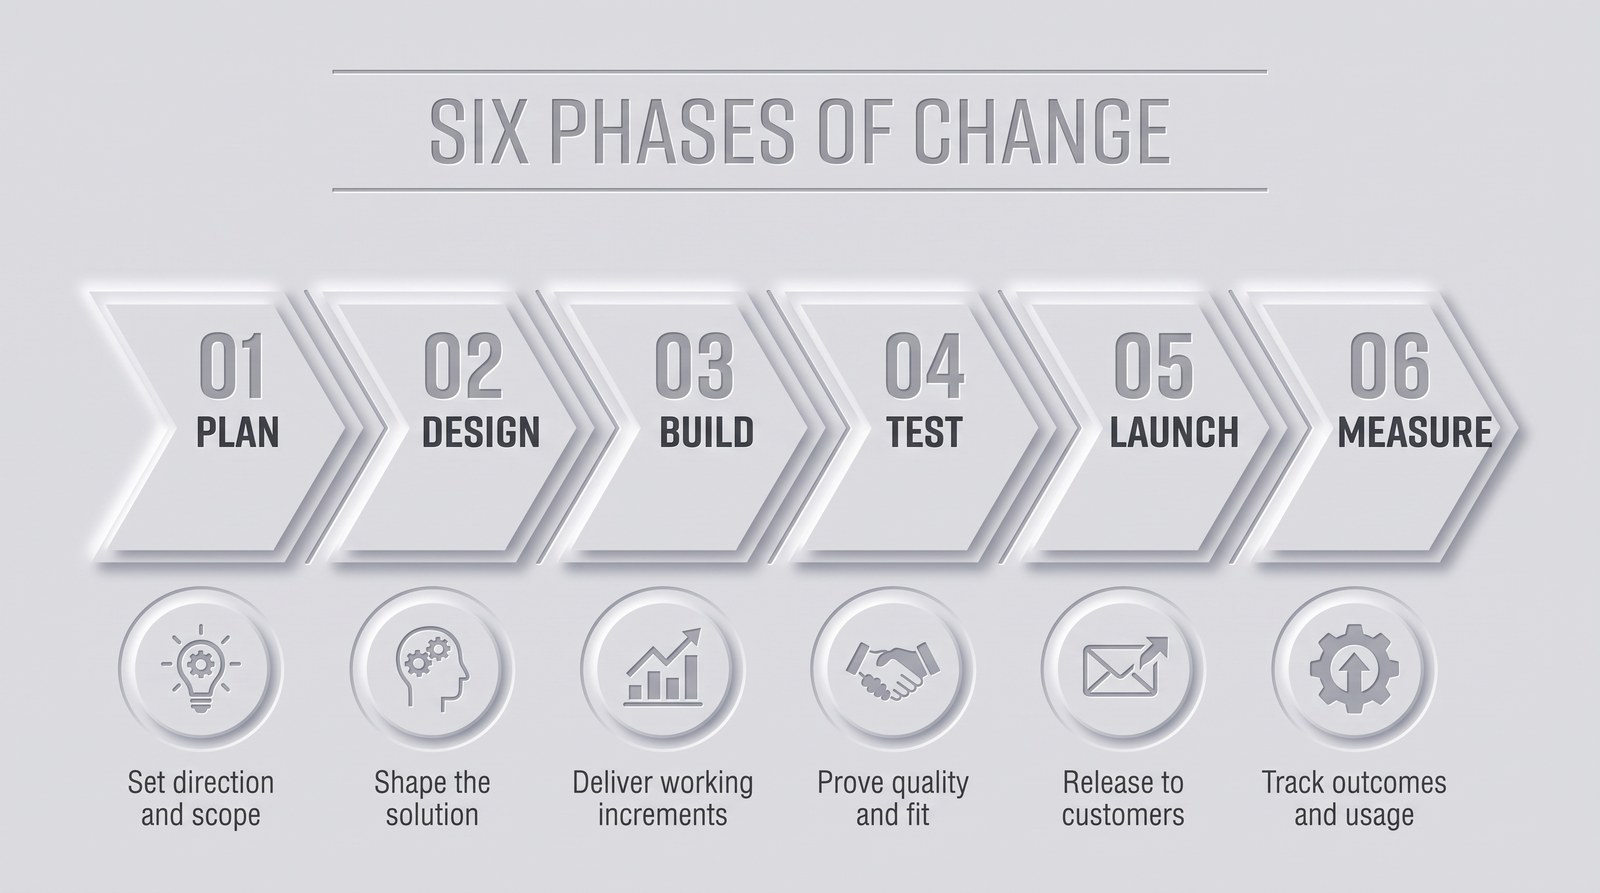
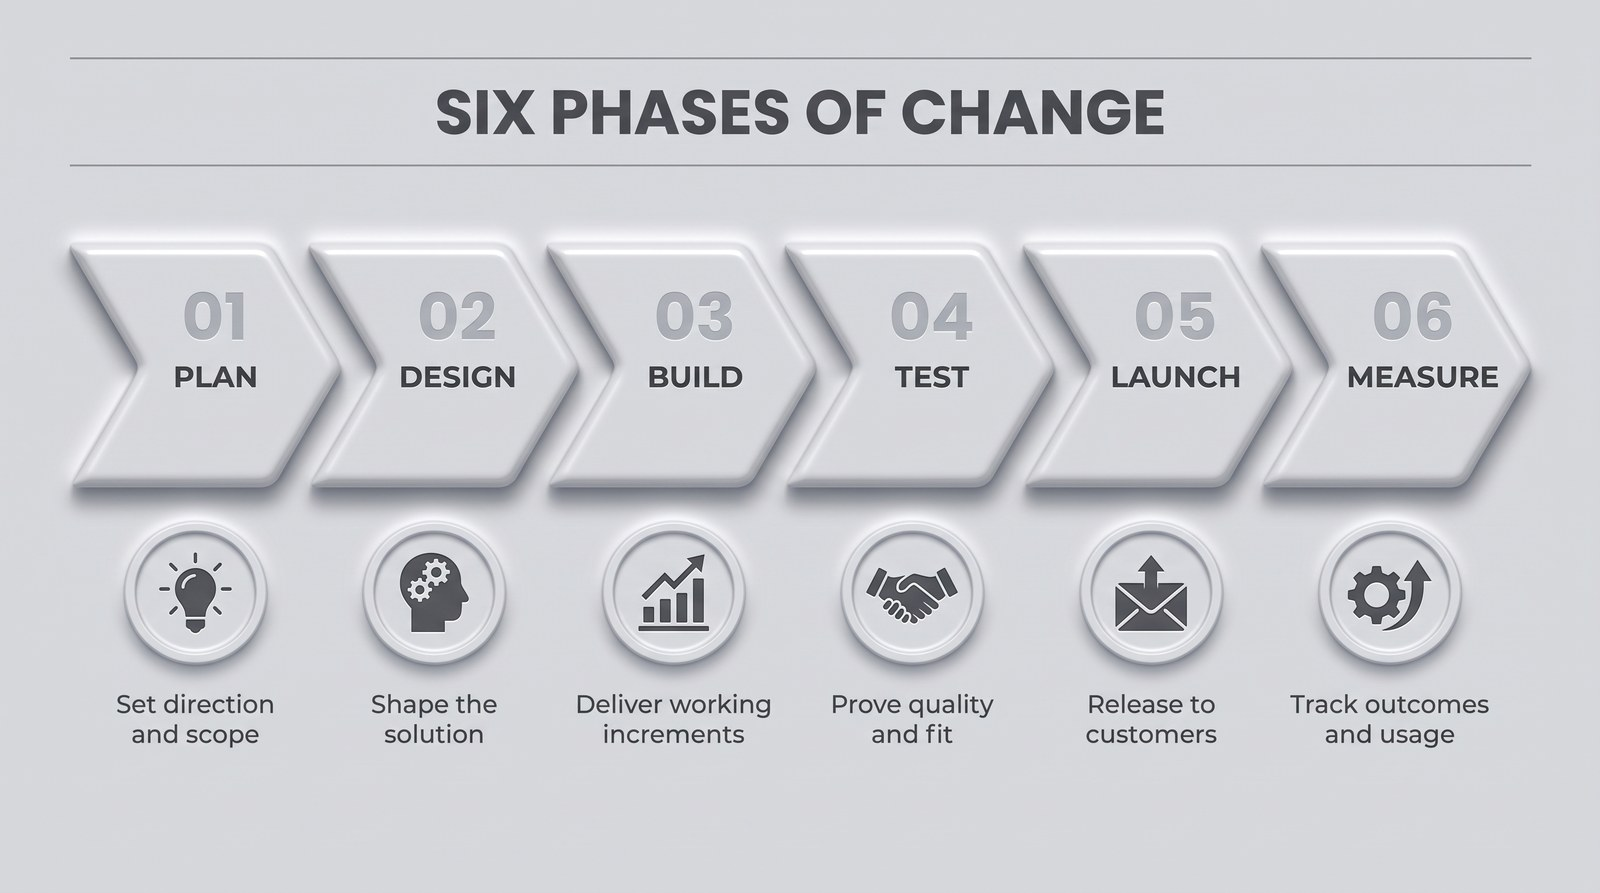
feat(iig3d): soft-emboss chevron row re-rendered with rolled glossy edges
Replace 3d-soft-emboss/05 with a render of itself pinned plus notes: each
chevron is one smooth slab with a rolled, glossy plastic edge, no stepped
double outline, and the gaps between chevrons are flat backdrop. Variant
emphasis updated; entry keeps id, pairings, variant and item_count and
records the regeneration.

Claude-Session: https://claude.ai/code/session_0151ARZiCY72S93mYekjP6EY

Changed region(s): [[0.0312, 0.0605, 0.9688, 0.9373]]

diff --git a/sdlc/knowledge/modules/catalogue.md b/sdlc/knowledge/modules/catalogue.md
@@ -5,11 +5,11 @@ description: "Graphify community 39: skills/iig3d/scripts/iig3d.py"
 resource: skills/iig3d/scripts
 tags: [module, graphify]
 status: draft
-generated: { by: sdlc/0.3.5, at: "2026-09-21T05:03:47Z" }
-stale_after: "2026-10-05T05:03:47Z"
-source_commit: b59f3451dc0b77b589cbafd9812f581df6f10352
+generated: { by: sdlc/0.3.5, at: "2026-09-21T05:06:16Z" }
+stale_after: "2026-10-05T05:06:16Z"
+source_commit: 6ac4d77c7d0e6ad62e60d2fa01cebbade71dc4ca
 sources:
-  - { id: iig3d, resource: skills/iig3d/scripts/iig3d.py, last_modified: "2026-09-21T15:03:44+10:00", digest: 1eab83aa7c95cc71 }
+  - { id: iig3d, resource: skills/iig3d/scripts/iig3d.py, last_modified: "2026-09-21T15:06:12+10:00", digest: 755d0eccdd75a015 }
 ---
 
 # Files
@@ -24,17 +24,17 @@ sources:
 - A catalogue ref named by the user: `<member>/<id|file|stem>`, a… (skills/iig3d/scripts/iig3d.py:L122)
 - .pin_token() (skills/iig3d/scripts/iig3d.py:L142)
 - .flag_values() (skills/iig3d/scripts/iig3d.py:L151)
-- prepare() (skills/iig3d/scripts/iig3d.py:L1677)
-- Shared front half of prompt and render: spec, route, aspect, refs, palette,… (skills/iig3d/scripts/iig3d.py:L1678)
-- cmd_render() (skills/iig3d/scripts/iig3d.py:L1718)
-- cmd_route() (skills/iig3d/scripts/iig3d.py:L1738)
-- cmd_refs() (skills/iig3d/scripts/iig3d.py:L1745)
-- The refs a render would pass, plus every catalogue ref of the member with its… (skills/iig3d/scripts/iig3d.py:L1746)
-- cmd_icons() (skills/iig3d/scripts/iig3d.py:L1760)
-- Name search and text-based suggestion in one call, so Claude can pick or verify… (skills/iig3d/scripts/iig3d.py:L1761)
-- cmd_check() (skills/iig3d/scripts/iig3d.py:L1782)
-- check() (skills/iig3d/scripts/iig3d.py:L1843)
-- Every catalogue rule in one pass; empty list means clean. (skills/iig3d/scripts/iig3d.py:L1844)
+- prepare() (skills/iig3d/scripts/iig3d.py:L1674)
+- Shared front half of prompt and render: spec, route, aspect, refs, palette,… (skills/iig3d/scripts/iig3d.py:L1675)
+- cmd_render() (skills/iig3d/scripts/iig3d.py:L1715)
+- cmd_route() (skills/iig3d/scripts/iig3d.py:L1735)
+- cmd_refs() (skills/iig3d/scripts/iig3d.py:L1742)
+- The refs a render would pass, plus every catalogue ref of the member with its… (skills/iig3d/scripts/iig3d.py:L1743)
+- cmd_icons() (skills/iig3d/scripts/iig3d.py:L1757)
+- Name search and text-based suggestion in one call, so Claude can pick or verify… (skills/iig3d/scripts/iig3d.py:L1758)
+- cmd_check() (skills/iig3d/scripts/iig3d.py:L1779)
+- check() (skills/iig3d/scripts/iig3d.py:L1840)
+- Every catalogue rule in one pass; empty list means clean. (skills/iig3d/scripts/iig3d.py:L1841)
 - Route (skills/iig3d/scripts/iig3d.py:L229)
 - .as_dict() (skills/iig3d/scripts/iig3d.py:L236)
 - split_style() (skills/iig3d/scripts/iig3d.py:L240)

diff --git a/skills/iig3d/docs/members/3d-soft-emboss.md b/skills/iig3d/docs/members/3d-soft-emboss.md
@@ -12,7 +12,7 @@ Member of the 3D corporate family. Neumorphic soft-embossed grey devices: jigsaw
 | `3d-soft-emboss/02` | `ref-02-jigsaw-ring-four.jpg` | Neumorphic light grey disc cut into four jigsaw quarters with a recessed centre, raised icon discs on each quarter, big light-grey numerals 01 to 04 with names and descriptions two per side of the disc | Jigsaw ring | clean |
 | `3d-soft-emboss/03` | `ref-03-segment-ring-three.jpg` | Neumorphic light grey disc split into three wedges by thin grooves around a recessed centre, raised icon disc per wedge on the right, three raised numbered cards 01 to 03 on the left, title centred at top | Segment ring | clean |
 | `3d-soft-emboss/04` | `ref-04-overlapping-circles.jpg` | Three raised translucent light-grey circles overlapping like a Venn diagram on the right, numerals 01 to 03 in the overlaps, a raised icon disc on each outer lobe, big numerals 1 to 3 with names and descriptions in a column on the left | Overlapping circles | clean |
-| `3d-soft-emboss/05` | `ref-05-chevron-row-six.jpg` | Six raised neumorphic chevron arrows nesting left to right in one row, all the same matte light grey as the backdrop with white top-left highlights and soft bottom-right shadows, a large light-grey numeral and a bold dark name on each chevron, a raised icon disc with a two-line caption under each one, title centred at top between two thin rules | Chevron row | clean |
+| `3d-soft-emboss/05` | `ref-05-chevron-row-six.jpg` | Six matte light-grey chevron arrows in one row, each a single smooth slab with a rolled glossy plastic edge, one soft highlight along the top edge and one soft shadow beneath, flat backdrop between them with no grooves or secondary outlines, a large light-grey numeral and a bold dark name on each chevron, a raised icon disc with a two-line caption under each one, title centred at top between two thin rules | Chevron row | clean |
 
 Pin one with `pin: <Pin>` in the spec (or `--pin`) to reproduce its composition with your content.
 
@@ -58,7 +58,7 @@ Pin one with `pin: <Pin>` in the spec (or `--pin`) to reproduce its composition 
 | **Jigsaw ring** | Parts that lock into one whole | Puzzle-cut disc, pieces separated by fine grooves |
 | **Segment ring** | Cycles and phases | Wedge-cut disc around a recessed centre |
 | **Overlapping circles** | Shared ground between three areas | Three raised circles with numerals in the overlaps |
-| **Chevron row** | Sequences of five or six steps | Raised chevrons in a row, icon discs and captions beneath, title between thin rules |
+| **Chevron row** | Sequences of five or six steps | Raised chevrons in a row with one rolled glossy edge each and flat gaps between, icon discs and captions beneath, title between thin rules |
 
 ### Visual Elements
 

diff --git a/sdlc/knowledge/modules/path.md b/sdlc/knowledge/modules/path.md
@@ -5,11 +5,11 @@ description: "Graphify community 35: skills/iig3d/scripts/iig3d.py"
 resource: skills/iig3d/scripts
 tags: [module, graphify]
 status: draft
-generated: { by: sdlc/0.3.5, at: "2026-09-21T05:03:47Z" }
-stale_after: "2026-10-05T05:03:47Z"
-source_commit: b59f3451dc0b77b589cbafd9812f581df6f10352
+generated: { by: sdlc/0.3.5, at: "2026-09-21T05:06:16Z" }
+stale_after: "2026-10-05T05:06:16Z"
+source_commit: 6ac4d77c7d0e6ad62e60d2fa01cebbade71dc4ca
 sources:
-  - { id: iig3d, resource: skills/iig3d/scripts/iig3d.py, last_modified: "2026-09-21T15:03:44+10:00", digest: 1eab83aa7c95cc71 }
+  - { id: iig3d, resource: skills/iig3d/scripts/iig3d.py, last_modified: "2026-09-21T15:06:12+10:00", digest: 755d0eccdd75a015 }
 ---
 
 # Files
@@ -22,15 +22,15 @@ sources:
 - Minimal .env parser: KEY=VALUE, optional `export `, quotes stripped, # comments… (skills/iig3d/scripts/iig3d.py:L1157)
 - api_key() (skills/iig3d/scripts/iig3d.py:L1177)
 - (key, source). Order: --api-key, ./.env in the calling directory, process… (skills/iig3d/scripts/iig3d.py:L1178)
-- load_prompt_text() (skills/iig3d/scripts/iig3d.py:L1245)
-- backup_existing() (skills/iig3d/scripts/iig3d.py:L1254)
-- render() (skills/iig3d/scripts/iig3d.py:L1269)
-- Call Nano Banana Pro with the persisted prompt file and save an RGB PNG.… (skills/iig3d/scripts/iig3d.py:L1282)
-- _load_meta() (skills/iig3d/scripts/iig3d.py:L1389)
-- _check_variant() (skills/iig3d/scripts/iig3d.py:L1418)
-- _new_member_record() (skills/iig3d/scripts/iig3d.py:L1426)
-- add_ref() (skills/iig3d/scripts/iig3d.py:L1447)
-- Normalise an image into refs/<member>/, register it in the member YAML (or… (skills/iig3d/scripts/iig3d.py:L1448)
+- load_prompt_text() (skills/iig3d/scripts/iig3d.py:L1242)
+- backup_existing() (skills/iig3d/scripts/iig3d.py:L1251)
+- render() (skills/iig3d/scripts/iig3d.py:L1266)
+- Call Nano Banana Pro with the persisted prompt file and save an RGB PNG.… (skills/iig3d/scripts/iig3d.py:L1279)
+- _load_meta() (skills/iig3d/scripts/iig3d.py:L1386)
+- _check_variant() (skills/iig3d/scripts/iig3d.py:L1415)
+- _new_member_record() (skills/iig3d/scripts/iig3d.py:L1423)
+- add_ref() (skills/iig3d/scripts/iig3d.py:L1444)
+- Normalise an image into refs/<member>/, register it in the member YAML (or… (skills/iig3d/scripts/iig3d.py:L1445)
 - read_yaml() (skills/iig3d/scripts/iig3d.py:L155)
 - write_yaml() (skills/iig3d/scripts/iig3d.py:L163)
 - load_catalogue() (skills/iig3d/scripts/iig3d.py:L169)

diff --git a/sdlc/knowledge/modules/iig3d-py.md b/sdlc/knowledge/modules/iig3d-py.md
@@ -5,11 +5,11 @@ description: "Graphify community 41: skills/iig3d/scripts/iig3d.py"
 resource: skills/iig3d/scripts
 tags: [module, graphify]
 status: draft
-generated: { by: sdlc/0.3.5, at: "2026-09-21T05:03:47Z" }
-stale_after: "2026-10-05T05:03:47Z"
-source_commit: b59f3451dc0b77b589cbafd9812f581df6f10352
+generated: { by: sdlc/0.3.5, at: "2026-09-21T05:06:16Z" }
+stale_after: "2026-10-05T05:06:16Z"
+source_commit: 6ac4d77c7d0e6ad62e60d2fa01cebbade71dc4ca
 sources:
-  - { id: iig3d, resource: skills/iig3d/scripts/iig3d.py, last_modified: "2026-09-21T15:03:44+10:00", digest: 1eab83aa7c95cc71 }
+  - { id: iig3d, resource: skills/iig3d/scripts/iig3d.py, last_modified: "2026-09-21T15:06:12+10:00", digest: 755d0eccdd75a015 }
 ---
 
 # Files
@@ -19,13 +19,13 @@ sources:
 - iig3d.py (skills/iig3d/scripts/iig3d.py:L1)
 - write_prompt() (skills/iig3d/scripts/iig3d.py:L1139)
 - prompts/NN-infographic-<slug>.md with NN the next free number; never overwrites. (skills/iig3d/scripts/iig3d.py:L1140)
-- exit_code() (skills/iig3d/scripts/iig3d.py:L1212)
-- _genai_client() (skills/iig3d/scripts/iig3d.py:L1263)
-- build_parser() (skills/iig3d/scripts/iig3d.py:L1602)
-- _split_vars() (skills/iig3d/scripts/iig3d.py:L1657)
-- cmd_palette() (skills/iig3d/scripts/iig3d.py:L1777)
-- dispatch() (skills/iig3d/scripts/iig3d.py:L1800)
-- main() (skills/iig3d/scripts/iig3d.py:L1806)
+- exit_code() (skills/iig3d/scripts/iig3d.py:L1209)
+- _genai_client() (skills/iig3d/scripts/iig3d.py:L1260)
+- build_parser() (skills/iig3d/scripts/iig3d.py:L1599)
+- _split_vars() (skills/iig3d/scripts/iig3d.py:L1654)
+- cmd_palette() (skills/iig3d/scripts/iig3d.py:L1774)
+- dispatch() (skills/iig3d/scripts/iig3d.py:L1797)
+- main() (skills/iig3d/scripts/iig3d.py:L1803)
 - _ratio_value() (skills/iig3d/scripts/iig3d.py:L383)
 - snap_aspect() (skills/iig3d/scripts/iig3d.py:L390)
 - Return (supported ratio, original when snapped). Presets and None use the… (skills/iig3d/scripts/iig3d.py:L391)

diff --git a/sdlc/knowledge/modules/test-render-py.md b/sdlc/knowledge/modules/test-render-py.md
@@ -5,12 +5,12 @@ description: "Graphify community 53: tests/conftest.py, tests/test_render.py"
 resource: tests
 tags: [module, graphify]
 status: draft
-generated: { by: sdlc/0.3.5, at: "2026-09-21T05:03:47Z" }
-stale_after: "2026-10-05T05:03:47Z"
-source_commit: b59f3451dc0b77b589cbafd9812f581df6f10352
+generated: { by: sdlc/0.3.5, at: "2026-09-21T05:06:16Z" }
+stale_after: "2026-10-05T05:06:16Z"
+source_commit: 6ac4d77c7d0e6ad62e60d2fa01cebbade71dc4ca
 sources:
   - { id: conftest, resource: tests/conftest.py, last_modified: "2026-09-17T11:22:55+10:00", digest: 889844ff3ec7d899 }
-  - { id: test_render, resource: tests/test_render.py, last_modified: "2026-09-21T15:03:44+10:00", digest: efc3a735a2e48b1b }
+  - { id: test_render, resource: tests/test_render.py, last_modified: "2026-09-21T15:06:12+10:00", digest: cc0a045b263b7107 }
 ---
 
 # Files
@@ -25,10 +25,10 @@ sources:
 - test_bad_ref_image_is_error_not_traceback() (tests/test_render.py:L111)
 - Review finding: failures before the API call must still yield the error record… (tests/test_render.py:L112)
 - test_client_factory_failure_is_error() (tests/test_render.py:L120)
-- test_quality_levels_map_to_gemini_parameters() (tests/test_render.py:L128)
-- test_draft_uses_flash_model_without_image_size() (tests/test_render.py:L135)
-- test_4k_uses_pro_model_with_image_size() (tests/test_render.py:L144)
-- test_explicit_model_overrides_quality_model() (tests/test_render.py:L151)
+- test_quality_levels_are_one_model_and_its_image_sizes() (tests/test_render.py:L128)
+- test_1k_uses_pro_model_with_image_size() (tests/test_render.py:L134)
+- test_4k_uses_pro_model_with_image_size() (tests/test_render.py:L143)
+- test_explicit_model_overrides_quality_model() (tests/test_render.py:L150)
 - prompt_file() (tests/test_render.py:L16)
 - test_dry_run_shape_and_no_file() (tests/test_render.py:L23)
 - test_saves_png_and_flattens_rgba() (tests/test_render.py:L32)

diff --git a/sdlc/knowledge/modules/items.md b/sdlc/knowledge/modules/items.md
@@ -5,24 +5,24 @@ description: "Graphify community 45: skills/iig3d/scripts/iig3d.py"
 resource: skills/iig3d/scripts
 tags: [module, graphify]
 status: draft
-generated: { by: sdlc/0.3.5, at: "2026-09-21T05:03:47Z" }
-stale_after: "2026-10-05T05:03:47Z"
-source_commit: b59f3451dc0b77b589cbafd9812f581df6f10352
+generated: { by: sdlc/0.3.5, at: "2026-09-21T05:06:16Z" }
+stale_after: "2026-10-05T05:06:16Z"
+source_commit: 6ac4d77c7d0e6ad62e60d2fa01cebbade71dc4ca
 sources:
-  - { id: iig3d, resource: skills/iig3d/scripts/iig3d.py, last_modified: "2026-09-21T15:03:44+10:00", digest: 1eab83aa7c95cc71 }
+  - { id: iig3d, resource: skills/iig3d/scripts/iig3d.py, last_modified: "2026-09-21T15:06:12+10:00", digest: 755d0eccdd75a015 }
 ---
 
 # Files
 - `skills/iig3d/scripts/iig3d.py`
 
 # Symbols
-- member_markdown() (skills/iig3d/scripts/iig3d.py:L1531)
-- catalogue_markdown() (skills/iig3d/scripts/iig3d.py:L1554)
-- expected_docs() (skills/iig3d/scripts/iig3d.py:L1573)
-- render_docs() (skills/iig3d/scripts/iig3d.py:L1580)
-- stale_docs() (skills/iig3d/scripts/iig3d.py:L1589)
-- `docs stale: <path>` for every generated file that is missing or differs from… (skills/iig3d/scripts/iig3d.py:L1590)
-- cmd_list() (skills/iig3d/scripts/iig3d.py:L1661)
+- member_markdown() (skills/iig3d/scripts/iig3d.py:L1528)
+- catalogue_markdown() (skills/iig3d/scripts/iig3d.py:L1551)
+- expected_docs() (skills/iig3d/scripts/iig3d.py:L1570)
+- render_docs() (skills/iig3d/scripts/iig3d.py:L1577)
+- stale_docs() (skills/iig3d/scripts/iig3d.py:L1586)
+- `docs stale: <path>` for every generated file that is missing or differs from… (skills/iig3d/scripts/iig3d.py:L1587)
+- cmd_list() (skills/iig3d/scripts/iig3d.py:L1658)
 - _check_type() (skills/iig3d/scripts/iig3d.py:L185)
 - Walk one schema node: a bare type name or {type, keys|items|values}. (skills/iig3d/scripts/iig3d.py:L186)
 - .items() (skills/iig3d/scripts/iig3d.py:L63)

diff --git a/sdlc/knowledge/modules/normalise-image.md b/sdlc/knowledge/modules/normalise-image.md
@@ -5,23 +5,23 @@ description: "Graphify community 50: skills/iig3d/scripts/iig3d.py"
 resource: skills/iig3d/scripts
 tags: [module, graphify]
 status: draft
-generated: { by: sdlc/0.3.5, at: "2026-09-21T05:03:47Z" }
-stale_after: "2026-10-05T05:03:47Z"
-source_commit: b59f3451dc0b77b589cbafd9812f581df6f10352
+generated: { by: sdlc/0.3.5, at: "2026-09-21T05:06:16Z" }
+stale_after: "2026-10-05T05:06:16Z"
+source_commit: 6ac4d77c7d0e6ad62e60d2fa01cebbade71dc4ca
 sources:
-  - { id: iig3d, resource: skills/iig3d/scripts/iig3d.py, last_modified: "2026-09-21T15:03:44+10:00", digest: 1eab83aa7c95cc71 }
+  - { id: iig3d, resource: skills/iig3d/scripts/iig3d.py, last_modified: "2026-09-21T15:06:12+10:00", digest: 755d0eccdd75a015 }
 ---
 
 # Files
 - `skills/iig3d/scripts/iig3d.py`
 
 # Symbols
-- to_rgb() (skills/iig3d/scripts/iig3d.py:L1216)
-- Flatten any PIL mode to RGB; alpha composites onto `background`. (skills/iig3d/scripts/iig3d.py:L1217)
-- _image_from_response() (skills/iig3d/scripts/iig3d.py:L1230)
-- First inline image part of a Gemini response as an RGB PIL image; None when… (skills/iig3d/scripts/iig3d.py:L1231)
-- normalise_image() (skills/iig3d/scripts/iig3d.py:L1374)
-- Copy `src` to `dest` as an RGB JPEG no larger than `max_edge` on its long side. (skills/iig3d/scripts/iig3d.py:L1375)
+- to_rgb() (skills/iig3d/scripts/iig3d.py:L1213)
+- Flatten any PIL mode to RGB; alpha composites onto `background`. (skills/iig3d/scripts/iig3d.py:L1214)
+- _image_from_response() (skills/iig3d/scripts/iig3d.py:L1227)
+- First inline image part of a Gemini response as an RGB PIL image; None when… (skills/iig3d/scripts/iig3d.py:L1228)
+- normalise_image() (skills/iig3d/scripts/iig3d.py:L1371)
+- Copy `src` to `dest` as an RGB JPEG no larger than `max_edge` on its long side. (skills/iig3d/scripts/iig3d.py:L1372)
 
 # Depends on
 - no EXTRACTED edges to other modules

diff --git a/sdlc/knowledge/modules/assemble.md b/sdlc/knowledge/modules/assemble.md
@@ -5,11 +5,11 @@ description: "Graphify community 9: skills/iig3d/scripts/iig3d.py"
 resource: skills/iig3d/scripts
 tags: [module, graphify]
 status: draft
-generated: { by: sdlc/0.3.5, at: "2026-09-21T05:03:47Z" }
-stale_after: "2026-10-05T05:03:47Z"
-source_commit: b59f3451dc0b77b589cbafd9812f581df6f10352
+generated: { by: sdlc/0.3.5, at: "2026-09-21T05:06:16Z" }
+stale_after: "2026-10-05T05:06:16Z"
+source_commit: 6ac4d77c7d0e6ad62e60d2fa01cebbade71dc4ca
 sources:
-  - { id: iig3d, resource: skills/iig3d/scripts/iig3d.py, last_modified: "2026-09-21T15:03:44+10:00", digest: 1eab83aa7c95cc71 }
+  - { id: iig3d, resource: skills/iig3d/scripts/iig3d.py, last_modified: "2026-09-21T15:06:12+10:00", digest: 755d0eccdd75a015 }
 ---
 
 # Files
@@ -22,8 +22,8 @@ sources:
 - The Reference Composition section: reproduce reference image 1, swap in the… (skills/iig3d/scripts/iig3d.py:L1036)
 - assemble() (skills/iig3d/scripts/iig3d.py:L1054)
 - Fill templates/base-prompt.md; warnings for text budget and item range; strict… (skills/iig3d/scripts/iig3d.py:L1068)
-- _dry_assembly() (skills/iig3d/scripts/iig3d.py:L1894)
-- Assemble a prompt for every member x pairing layout; report ref-rule violations. (skills/iig3d/scripts/iig3d.py:L1895)
+- _dry_assembly() (skills/iig3d/scripts/iig3d.py:L1891)
+- Assemble a prompt for every member x pairing layout; report ref-rule violations. (skills/iig3d/scripts/iig3d.py:L1892)
 - Item (skills/iig3d/scripts/iig3d.py:L286)
 - Spec (skills/iig3d/scripts/iig3d.py:L294)
 - _str() (skills/iig3d/scripts/iig3d.py:L317)

diff --git a/sdlc/knowledge/log.md b/sdlc/knowledge/log.md
@@ -1,6 +1,25 @@
 # Knowledge Update Log
 
 ## 2026-09-21
+* **Update**: [test_cli.py](/modules/test-cli-py.md).
+* **Update**: [assemble](/modules/assemble.md).
+* **Update**: [test_spec.py](/modules/test-spec-py.md).
+* **Update**: [Member](/modules/member.md).
+* **Update**: [Path](/modules/path.md).
+* **Update**: [Catalogue](/modules/catalogue.md).
+* **Update**: [iig3d.py](/modules/iig3d-py.md).
+* **Update**: [.items](/modules/items.md).
+* **Update**: [resolve_icons](/modules/resolve-icons.md).
+* **Update**: [normalise_image](/modules/normalise-image.md).
+* **Update**: [test_render.py](/modules/test-render-py.md).
+* **Update**: [iig3d.py](/hubs/iig3d-py.md).
+* **Update**: [Catalogue](/hubs/catalogue.md).
+* **Update**: [Path](/hubs/path.md).
+* **Update**: [test_cli.py](/hubs/test-cli-py.md).
+* **Update**: [UsageError](/hubs/usageerror.md).
+* **Update**: [assemble()](/hubs/assemble.md).
+* **Update**: [run()](/hubs/run.md).
+* **Update**: [add_ref()](/hubs/add-ref.md).
 * **Update**: [iig3d skill](/features/iig3d-skill.md).
 * **Update**: [test_cli.py](/modules/test-cli-py.md).
 * **Update**: [assemble](/modules/assemble.md).

diff --git a/sdlc/knowledge/hubs/add-ref.md b/sdlc/knowledge/hubs/add-ref.md
@@ -5,15 +5,15 @@ description: Graphify god node with degree 20 in skills/iig3d/scripts/iig3d.py
 resource: skills/iig3d/scripts/iig3d.py
 tags: [hub, graphify]
 status: draft
-generated: { by: sdlc/0.3.5, at: "2026-09-21T05:03:47Z" }
-stale_after: "2026-10-05T05:03:47Z"
-source_commit: b59f3451dc0b77b589cbafd9812f581df6f10352
+generated: { by: sdlc/0.3.5, at: "2026-09-21T05:06:16Z" }
+stale_after: "2026-10-05T05:06:16Z"
+source_commit: 6ac4d77c7d0e6ad62e60d2fa01cebbade71dc4ca
 sources:
-  - { id: iig3d, resource: skills/iig3d/scripts/iig3d.py, last_modified: "2026-09-21T15:03:44+10:00", digest: 1eab83aa7c95cc71 }
+  - { id: iig3d, resource: skills/iig3d/scripts/iig3d.py, last_modified: "2026-09-21T15:06:12+10:00", digest: 755d0eccdd75a015 }
 ---
 
 # Where
-- `skills/iig3d/scripts/iig3d.py:L1447`
+- `skills/iig3d/scripts/iig3d.py:L1444`
 
 # Module
 - [Path](/modules/path.md)

diff --git a/sdlc/knowledge/hubs/assemble.md b/sdlc/knowledge/hubs/assemble.md
@@ -5,11 +5,11 @@ description: Graphify god node with degree 23 in skills/iig3d/scripts/iig3d.py
 resource: skills/iig3d/scripts/iig3d.py
 tags: [hub, graphify]
 status: draft
-generated: { by: sdlc/0.3.5, at: "2026-09-21T05:03:47Z" }
-stale_after: "2026-10-05T05:03:47Z"
-source_commit: b59f3451dc0b77b589cbafd9812f581df6f10352
+generated: { by: sdlc/0.3.5, at: "2026-09-21T05:06:16Z" }
+stale_after: "2026-10-05T05:06:16Z"
+source_commit: 6ac4d77c7d0e6ad62e60d2fa01cebbade71dc4ca
 sources:
-  - { id: iig3d, resource: skills/iig3d/scripts/iig3d.py, last_modified: "2026-09-21T15:03:44+10:00", digest: 1eab83aa7c95cc71 }
+  - { id: iig3d, resource: skills/iig3d/scripts/iig3d.py, last_modified: "2026-09-21T15:06:12+10:00", digest: 755d0eccdd75a015 }
 ---
 
 # Where

diff --git a/sdlc/knowledge/hubs/catalogue.md b/sdlc/knowledge/hubs/catalogue.md
@@ -5,11 +5,11 @@ description: Graphify god node with degree 41 in skills/iig3d/scripts/iig3d.py
 resource: skills/iig3d/scripts/iig3d.py
 tags: [hub, graphify]
 status: draft
-generated: { by: sdlc/0.3.5, at: "2026-09-21T05:03:47Z" }
-stale_after: "2026-10-05T05:03:47Z"
-source_commit: b59f3451dc0b77b589cbafd9812f581df6f10352
+generated: { by: sdlc/0.3.5, at: "2026-09-21T05:06:16Z" }
+stale_after: "2026-10-05T05:06:16Z"
+source_commit: 6ac4d77c7d0e6ad62e60d2fa01cebbade71dc4ca
 sources:
-  - { id: iig3d, resource: skills/iig3d/scripts/iig3d.py, last_modified: "2026-09-21T15:03:44+10:00", digest: 1eab83aa7c95cc71 }
+  - { id: iig3d, resource: skills/iig3d/scripts/iig3d.py, last_modified: "2026-09-21T15:06:12+10:00", digest: 755d0eccdd75a015 }
 ---
 
 # Where
